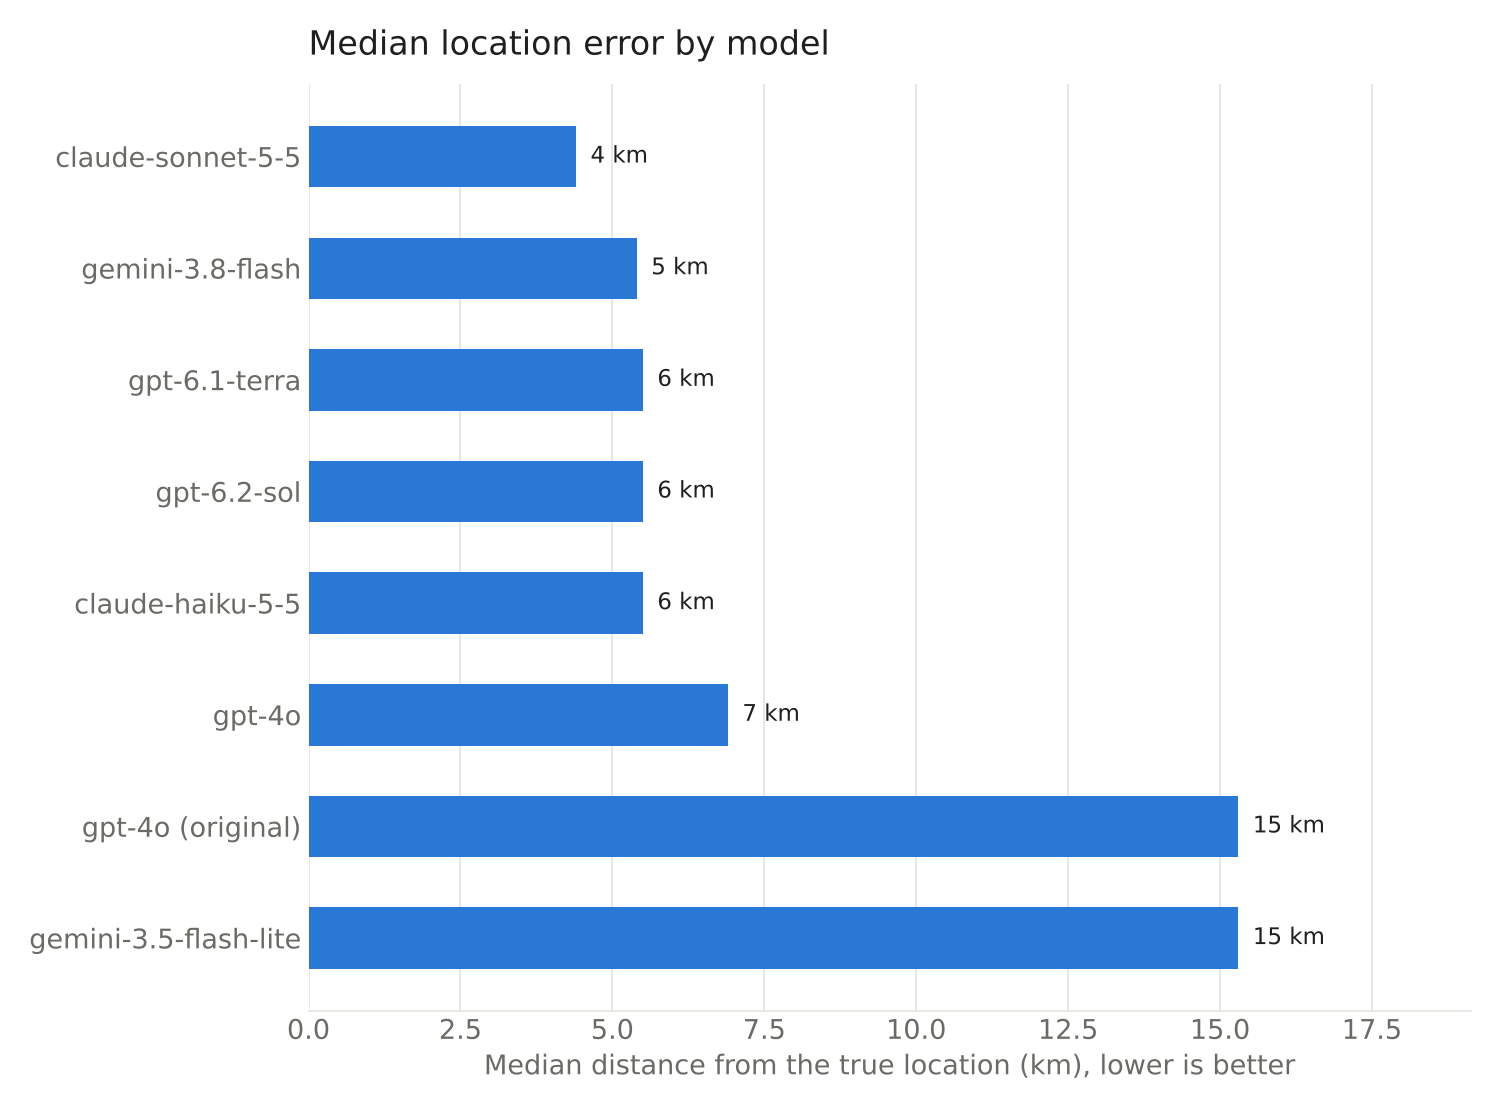
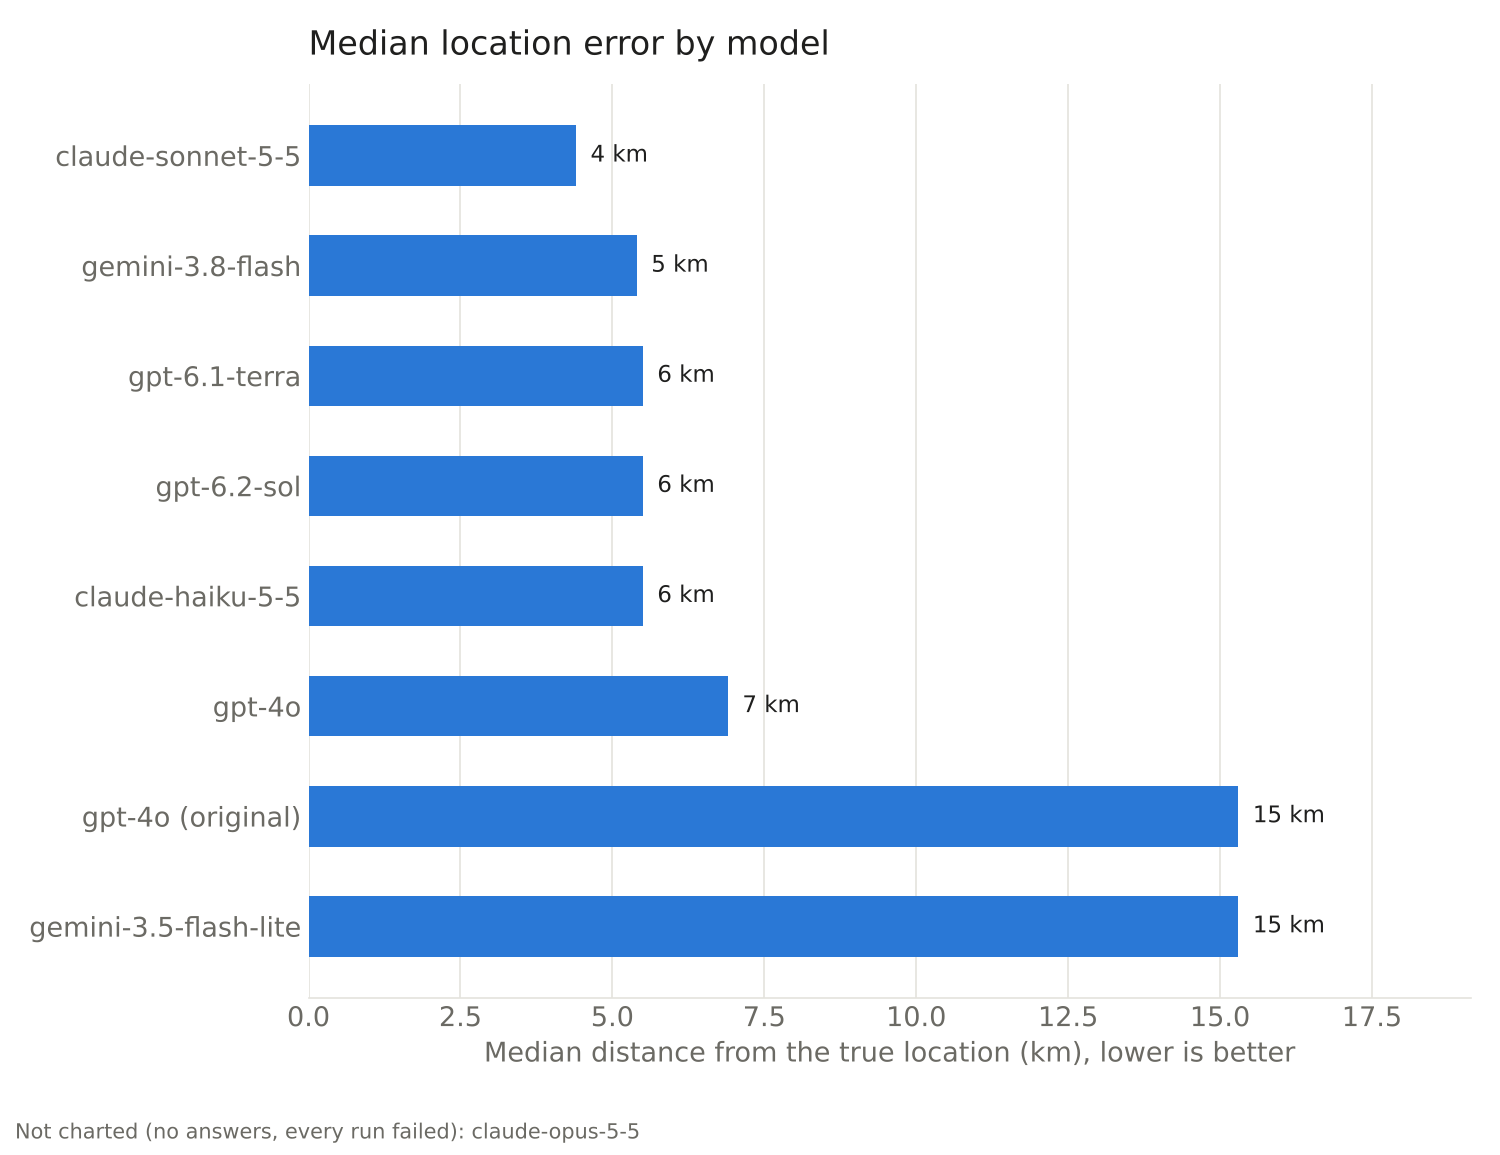
Benchmark charts: no reused colours, readable model labels
- Leave models with no answers (every run failed) out of the charts and
  name them in a footnote, instead of drawing them as 0% bars.
- Never reuse a palette colour within a chart: past 8 models, the
  multi-series charts split into _partN files.
- Draw confidence right-vs-wrong as horizontal bars so model names don't
  overlap.
- Calibration: an error of 0 km now counts as correct.
- Regenerate benchmark-results/ and results-claude/ charts.

Claude-Session: https://claude.ai/code/session_01QYVsSHisQA6ypfrNR5WgUo

diff --git a/eval/benchmark.py b/eval/benchmark.py
@@ -294,6 +294,16 @@ def _style(ax: Any) -> None:
     ax.set_axisbelow(True)
 
 
+def _chunks(items: list[Any], size: int) -> list[list[Any]]:
+    return [items[i:i + size] for i in range(0, len(items), size)] or [[]]
+
+
+def _footnote(fig: Any, skipped: list[str]) -> None:
+    if skipped:
+        fig.text(0.01, 0.01, "Not charted (no answers, every run failed): " + ", ".join(skipped),
+                 fontsize=10, color=_MUTED, ha="left", va="bottom")
+
+
 def charts(summary: list[dict[str, Any]], rows: list[dict[str, Any]], out_dir: Path) -> None:
     import matplotlib
 
@@ -302,37 +312,87 @@ def charts(summary: list[dict[str, Any]], rows: list[dict[str, Any]], out_dir: P
 
     plt.rcParams.update({"font.size": 13, "font.family": "DejaVu Sans", "text.color": _INK,
                          "axes.labelcolor": _MUTED, "figure.dpi": 150})
-    models = [s["model"] for s in summary]
-    color = {m: _SERIES[i % len(_SERIES)] for i, m in enumerate(models)}
-    if len(models) > len(_SERIES):
-        print("Warning: more than 8 models; colours repeat. Split the chart.")
+    # A model that never answered (e.g. refused every photo) has no accuracy or
+    # confidence to show: drawing it as 0% bars would read as "always wrong".
+    # It stays in the summary CSVs and the printed table, and is named in a footnote.
+    skipped = [s["model"] for s in summary if s["failed"] >= s["photos"]]
+    summary = [s for s in summary if s["failed"] < s["photos"]]
+    for old in list(out_dir.glob("accuracy_by_threshold*.png")) + list(out_dir.glob("calibration*.png")):
+        old.unlink()
+    if not summary:
+        return
+    # The palette has 8 validated hues and a colour is never reused within a
+    # chart, so more than 8 models are split into separate charts.
+    groups = _chunks(summary, len(_SERIES))
+    if len(groups) > 1:
+        print(f"Note: {len(summary)} models; multi-series charts split into {len(groups)} parts of up to {len(_SERIES)}.")
 
-    # 1. Accuracy at distance thresholds (grouped bars).
-    fig, ax = plt.subplots(figsize=(12, 6.2))
-    _style(ax)
-    n = len(models)
-    width = 0.8 / max(n, 1)
-    for i, s in enumerate(summary):
-        xs = [k + (i - (n - 1) / 2) * width for k in range(len(THRESHOLDS_KM))]
-        ys = [100 * (s[f"acc_{t}km"] or 0) for t in THRESHOLDS_KM]
-        ax.bar(xs, ys, width * 0.9, color=color[s["model"]], label=s["model"],
-               edgecolor=_SURFACE, linewidth=2)
-        if s is summary[0] or n <= 3:  # label one series' values, not every bar
-            for x, y in zip(xs, ys):
-                ax.text(x, y + 1.2, f"{y:.0f}%", ha="center", va="bottom", fontsize=10, color=_INK)
-    ax.set_xticks(range(len(THRESHOLDS_KM)), THRESHOLD_LABELS)
-    ax.set_ylim(0, 105)
-    ax.set_ylabel("Photos located within distance (%)")
-    ax.set_title("Share of photos located within each distance", loc="left", fontsize=16, color=_INK, pad=14)
-    ax.legend(frameon=False, ncol=min(n, 4), loc="upper left", bbox_to_anchor=(0, -0.13))
-    fig.tight_layout()
-    fig.savefig(out_dir / "accuracy_by_threshold.png", facecolor=_SURFACE)
-    plt.close(fig)
+    for part, group in enumerate(groups, 1):
+        suffix = f"_part{part}" if len(groups) > 1 else ""
+        color = {s["model"]: _SERIES[i] for i, s in enumerate(group)}
+        n = len(group)
+
+        # 1. Accuracy at distance thresholds (grouped bars).
+        fig, ax = plt.subplots(figsize=(12, 6.6))
+        _style(ax)
+        width = 0.8 / max(n, 1)
+        for i, s in enumerate(group):
+            xs = [k + (i - (n - 1) / 2) * width for k in range(len(THRESHOLDS_KM))]
+            ys = [100 * (s[f"acc_{t}km"] or 0) for t in THRESHOLDS_KM]
+            ax.bar(xs, ys, width * 0.9, color=color[s["model"]], label=s["model"],
+                   edgecolor=_SURFACE, linewidth=2)
+            if s is group[0] or n <= 3:  # label one series' values, not every bar
+                for x, y in zip(xs, ys):
+                    ax.text(x, y + 1.2, f"{y:.0f}%", ha="center", va="bottom", fontsize=10, color=_INK)
+        ax.set_xticks(range(len(THRESHOLDS_KM)), THRESHOLD_LABELS)
+        ax.set_ylim(0, 105)
+        ax.set_ylabel("Photos located within distance (%)")
+        title = "Share of photos located within each distance"
+        ax.set_title(title + (f" (part {part} of {len(groups)})" if suffix else ""),
+                     loc="left", fontsize=16, color=_INK, pad=14)
+        ax.legend(frameon=False, ncol=min(n, 4), loc="upper left", bbox_to_anchor=(0, -0.13))
+        fig.tight_layout(rect=(0, 0.04 if skipped else 0, 1, 1))
+        _footnote(fig, skipped)
+        fig.savefig(out_dir / f"accuracy_by_threshold{suffix}.png", facecolor=_SURFACE)
+        plt.close(fig)
+
+        # 4. Calibration: does a stated confidence match how often it is right?
+        bins = [(0.0, 0.2), (0.2, 0.4), (0.4, 0.6), (0.6, 0.8), (0.8, 1.01)]
+        fig, ax = plt.subplots(figsize=(8, 7.4))
+        _style(ax)
+        ax.xaxis.grid(True, color=_GRID)
+        ax.plot([0, 100], [0, 100], color=_MUTED, linewidth=1.5, linestyle="--", label="Perfect calibration")
+        for s in group:
+            m = s["model"]
+            mine = [r for r in rows if r["model"] == m]
+            xs, ys = [], []
+            for lo, hi in bins:
+                inside = [r for r in mine if lo <= _conf_25(r) < hi]
+                if len(inside) < 3:  # too few photos to plot a rate
+                    continue
+                ok = [(_num(r["error_km"]) if _num(r["error_km"]) is not None else float("inf")) <= CORRECT_KM
+                      for r in inside]
+                xs.append(100 * statistics.mean(_conf_25(r) for r in inside))
+                ys.append(100 * sum(ok) / len(ok))
+            if xs:
+                ax.plot(xs, ys, color=color[m], linewidth=2, marker="o", markersize=8,
+                        markeredgecolor=_SURFACE, markeredgewidth=2, label=m)
+        ax.set_xlim(0, 100)
+        ax.set_ylim(0, 100)
+        ax.set_xlabel(f"Stated chance of being within {CORRECT_KM} km (%)")
+        ax.set_ylabel(f"Actually within {CORRECT_KM} km (%)")
+        ax.set_title("Confidence calibration" + (f" (part {part} of {len(groups)})" if suffix else ""),
+                     loc="left", fontsize=16, color=_INK, pad=14)
+        ax.legend(frameon=False, loc="upper left", fontsize=11)
+        fig.tight_layout(rect=(0, 0.04 if skipped else 0, 1, 1))
+        _footnote(fig, skipped)
+        fig.savefig(out_dir / f"calibration{suffix}.png", facecolor=_SURFACE)
+        plt.close(fig)
 
     # 2. Median error per model (single measure -> one hue, sorted).
     med = sorted((s for s in summary if s["median_error_km"] is not None), key=lambda s: s["median_error_km"])
     if med:
-        fig, ax = plt.subplots(figsize=(10, 0.7 * len(med) + 1.8))
+        fig, ax = plt.subplots(figsize=(10, 0.7 * len(med) + 2.1))
         _style(ax)
         ax.yaxis.grid(False)
         ax.xaxis.grid(True, color=_GRID)
@@ -344,67 +404,43 @@ def charts(summary: list[dict[str, Any]], rows: list[dict[str, Any]], out_dir: P
         ax.set_xlabel("Median distance from the true location (km), lower is better")
         ax.set_title("Median location error by model", loc="left", fontsize=16, color=_INK, pad=14)
         ax.set_xlim(0, max(vals) * 1.25 or 1)
-        fig.tight_layout()
+        fig.tight_layout(rect=(0, 0.05 if skipped else 0, 1, 1))
+        _footnote(fig, skipped)
         fig.savefig(out_dir / "median_error.png", facecolor=_SURFACE)
         plt.close(fig)
 
     # 3. Confidence on right vs wrong answers: a trustworthy score is high
-    # when right and low when wrong. Readable even with few photos.
+    # when right and low when wrong. Horizontal bars keep long model names
+    # readable however many models there are.
     sep = [s for s in summary if s["confidence_when_correct"] is not None]
     if sep:
-        fig, ax = plt.subplots(figsize=(12, 6.2))
+        fig, ax = plt.subplots(figsize=(11, 1.0 * len(sep) + 2.4))
         _style(ax)
-        xs = list(range(len(sep)))
-        w = 0.38
+        ax.yaxis.grid(False)
+        ax.xaxis.grid(True, color=_GRID)
+        ys = list(range(len(sep)))
+        h = 0.36
         right = [100 * (s["confidence_when_correct"] or 0) for s in sep]
         wrong = [100 * (s["confidence_when_wrong"] or 0) for s in sep]
-        ax.bar([x - w / 2 for x in xs], right, w * 0.92, color=_SERIES[0], label=f"Answer within {CORRECT_KM} km")
-        ax.bar([x + w / 2 for x in xs], wrong, w * 0.92, color=_SERIES[1], label=f"Answer more than {CORRECT_KM} km off")
-        for x, (r_, w_, s_) in enumerate(zip(right, wrong, sep)):
-            ax.text(x - w / 2, r_ + 1.2, f"{r_:.0f}%", ha="center", fontsize=10, color=_INK)
+        ax.barh([y - h / 2 for y in ys], right, h * 0.92, color=_SERIES[0], label=f"Answer within {CORRECT_KM} km")
+        ax.barh([y + h / 2 for y in ys], wrong, h * 0.92, color=_SERIES[1], label=f"Answer more than {CORRECT_KM} km off")
+        for y, (r_, w_, s_) in enumerate(zip(right, wrong, sep)):
+            ax.text(r_ + 0.8, y - h / 2, f"{r_:.0f}%", va="center", fontsize=10, color=_INK)
             if s_["confidence_when_wrong"] is not None:
-                ax.text(x + w / 2, w_ + 1.2, f"{w_:.0f}%", ha="center", fontsize=10, color=_INK)
+                ax.text(w_ + 0.8, y + h / 2, f"{w_:.0f}%", va="center", fontsize=10, color=_INK)
             else:
-                ax.text(x + w / 2, 1.2, "no misses", ha="center", fontsize=9, color=_MUTED)
-        ax.set_xticks(xs, [s["model"] for s in sep], fontsize=11)
-        ax.set_ylim(0, 105)
-        ax.set_ylabel("Average stated confidence (%)")
+                ax.text(0.8, y + h / 2, "no misses", va="center", fontsize=9, color=_MUTED)
+        ax.set_yticks(ys, [s["model"] for s in sep], fontsize=11)
+        ax.invert_yaxis()
+        ax.set_xlim(0, 105)
+        ax.set_xlabel("Average stated confidence (%)")
         ax.set_title("Confidence when right vs. when wrong (bigger gap = more trustworthy)",
                      loc="left", fontsize=16, color=_INK, pad=14)
-        ax.legend(frameon=False, ncol=2, loc="upper left", bbox_to_anchor=(0, -0.1))
-        fig.tight_layout()
+        ax.legend(frameon=False, ncol=2, loc="upper left", bbox_to_anchor=(0, -0.05 - 0.35 / len(sep)), fontsize=11)
+        fig.tight_layout(rect=(0, 0.04 if skipped else 0, 1, 1))
+        _footnote(fig, skipped)
         fig.savefig(out_dir / "confidence_right_vs_wrong.png", facecolor=_SURFACE)
         plt.close(fig)
-
-    # 4. Calibration: does a stated confidence match how often it is right?
-    bins = [(0.0, 0.2), (0.2, 0.4), (0.4, 0.6), (0.6, 0.8), (0.8, 1.01)]
-    fig, ax = plt.subplots(figsize=(8, 7))
-    _style(ax)
-    ax.xaxis.grid(True, color=_GRID)
-    ax.plot([0, 100], [0, 100], color=_MUTED, linewidth=1.5, linestyle="--", label="Perfect calibration")
-    for m in models:
-        mine = [r for r in rows if r["model"] == m]
-        xs, ys, ns = [], [], []
-        for lo, hi in bins:
-            inside = [r for r in mine if lo <= _conf_25(r) < hi]
-            if len(inside) < 3:  # too few photos to plot a rate
-                continue
-            ok = [((_num(r["error_km"]) or float("inf")) <= CORRECT_KM) for r in inside]
-            xs.append(100 * statistics.mean(_conf_25(r) for r in inside))
-            ys.append(100 * sum(ok) / len(ok))
-            ns.append(len(inside))
-        if xs:
-            ax.plot(xs, ys, color=color[m], linewidth=2, marker="o", markersize=8,
-                    markeredgecolor=_SURFACE, markeredgewidth=2, label=m)
-    ax.set_xlim(0, 100)
-    ax.set_ylim(0, 100)
-    ax.set_xlabel(f"Stated chance of being within {CORRECT_KM} km (%)")
-    ax.set_ylabel(f"Actually within {CORRECT_KM} km (%)")
-    ax.set_title("Confidence calibration", loc="left", fontsize=16, color=_INK, pad=14)
-    ax.legend(frameon=False, loc="upper left", fontsize=11)
-    fig.tight_layout()
-    fig.savefig(out_dir / "calibration.png", facecolor=_SURFACE)
-    plt.close(fig)
 
 
 def report(out_dir: Path) -> None:
